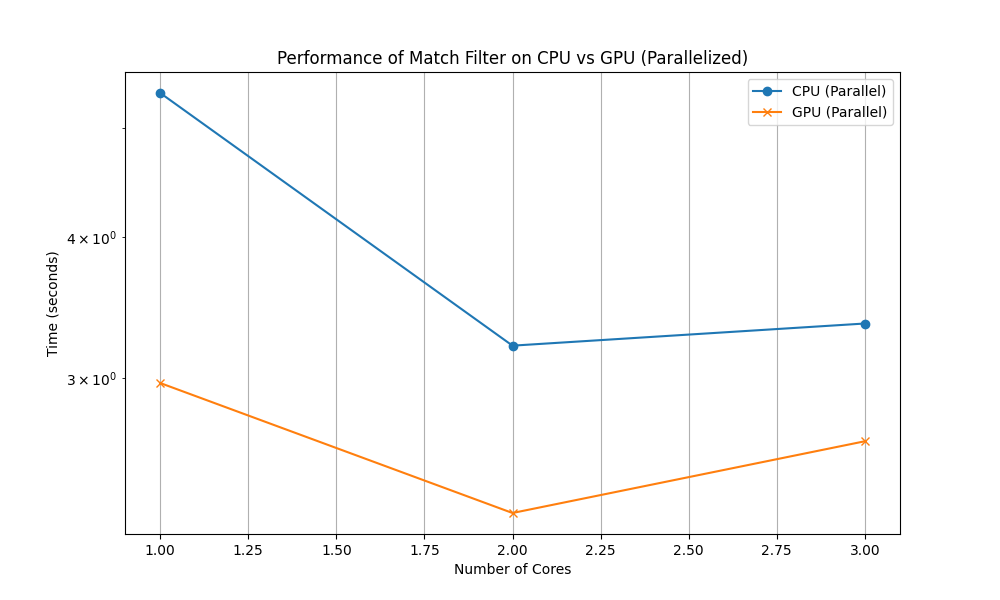
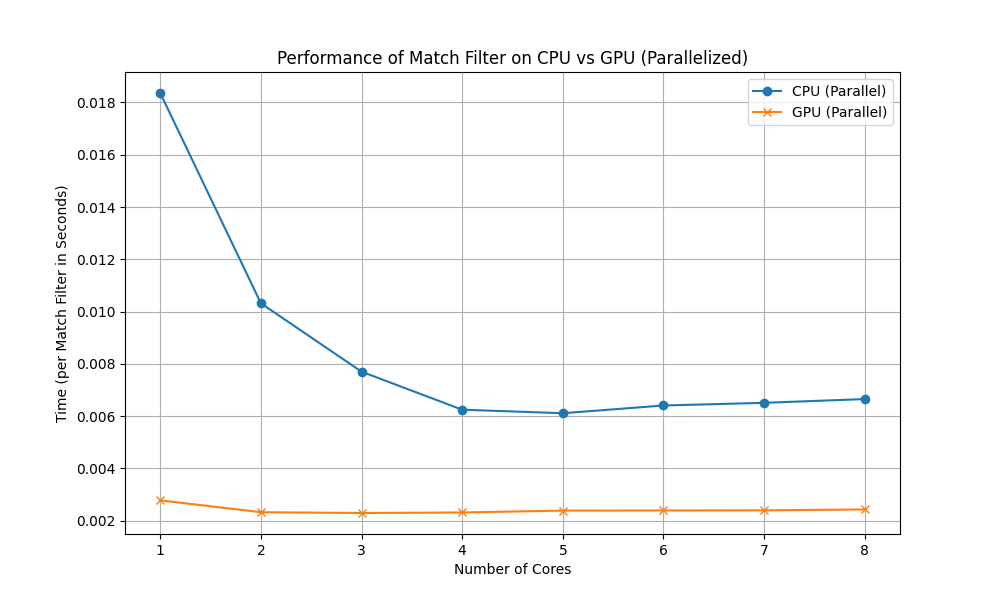
match_filter changes

diff --git a/scripts/matchfilter_test.py b/scripts/matchfilter_test.py
@@ -4,6 +4,7 @@ from mlx.core.fft import ifft
 import time
 import multiprocessing
 import matplotlib.pyplot as plt
+import h5py
 
 def define_match_filter(a, b, stream): # multiplies two arrays, performs the IFFT, and returns the maximum value of the reshaped result.
     product = mx.multiply(a.conj(), b, stream=stream)
@@ -18,47 +19,77 @@ def frozen_gpumatchfilter(ab):
                 return define_match_filter(*ab, stream=mx.gpu)
 
 if __name__ == "__main__":
-    list_size = 120
+    list_size = 1000
+    list_size_cpu = 1000
+    list_size_gpu = 500
     array_size = int(2**20)
-    a_list = [mx.array(mx.random.normal(shape=(array_size,), dtype=mx.float32) + 1j * mx.random.normal(shape=(array_size,), dtype=mx.float32)) for _ in range(list_size)]
-    b_list = [mx.array(mx.random.normal(shape=(array_size,), dtype=mx.float32) + 1j * mx.random.normal(shape=(array_size,), dtype=mx.float32)) for _ in range(list_size)]
+    a_array = mx.array(mx.random.normal(shape=(array_size,), dtype=mx.float32) + 1j * mx.random.normal(shape=(array_size,), dtype=mx.float32)) 
+    b_array = mx.array(mx.random.normal(shape=(array_size,), dtype=mx.float32) + 1j * mx.random.normal(shape=(array_size,), dtype=mx.float32)) 
+    a_list = [a_array for _ in range(list_size)]
+    b_list = [b_array for _ in range(list_size)]
     ab_list = list(zip(a_list,b_list))
-    cpu_max_values = []
-    gpu_max_values = []
+    #cpu_max_values = []
+    #gpu_max_values = []
 
     # running on a single core for CPU and GPU
-    for a, b in zip(a_list, b_list):
-        cpu_max_values.append(define_match_filter(a, b, stream=mx.cpu))
-        gpu_max_values.append(define_match_filter(a, b, stream=mx.gpu))
+    #for a, b in zip(a_list, b_list):
+    #    cpu_max_values.append(define_match_filter(a, b, stream=mx.cpu))
+    #    gpu_max_values.append(define_match_filter(a, b, stream=mx.gpu))
 
     # parallelizing the task (cores 1-4)
     cpu_times_parallel = []
     gpu_times_parallel = []
 
-    test_cores = [1,2,3]
+    test_cores = [1,2,3,4,5,6,7,8]
 
     for ncores in test_cores:
         with multiprocessing.Pool(ncores) as pool:
             start_time = time.perf_counter()
             cpu_results = list(pool.map(frozen_cpumatchfilter, ab_list))
             cpu_time_parallel = time.perf_counter() - start_time
-            cpu_times_parallel.append(cpu_time_parallel)
+            cpu_times_parallel.append(cpu_time_parallel / list_size_cpu)
 
             start_time = time.perf_counter()
             gpu_results = list(pool.map(frozen_gpumatchfilter, ab_list))
             gpu_time_parallel = time.perf_counter() - start_time
-            gpu_times_parallel.append(gpu_time_parallel)
+            gpu_times_parallel.append(gpu_time_parallel / list_size_gpu)
+
+    cpu_times_parallel =  np.array(cpu_times_parallel)
+    gpu_times_parallel =  np.array(gpu_times_parallel)
+
+    # saves timing results to HDF5 file
+    with h5py.File("match_filter_results.h5", "w") as hdf:
+        hdf.create_dataset("test_cores", data=test_cores)
+        hdf.create_dataset("cpu_times_parallel", data=cpu_times_parallel)
+        hdf.create_dataset("gpu_times_parallel", data=gpu_times_parallel)
+
+    # reads timing results from HDF5 file
+    with h5py.File("match_filter_results.h5", "r") as hdf:
+        test_cores = hdf["test_cores"][:]
+        cpu_times_parallel = hdf["cpu_times_parallel"][:]
+        gpu_times_parallel = hdf["gpu_times_parallel"][:]
+    
 
     plt.figure(figsize=(10, 6))
-    plt.semilogy()
     plt.plot(test_cores, cpu_times_parallel, label="CPU (Parallel)", marker='o')
     plt.plot(test_cores, gpu_times_parallel, label="GPU (Parallel)", marker='x')
     plt.xlabel("Number of Cores")
-    plt.ylabel("Time (seconds)")
+    plt.ylabel("Time (per Match Filter in Seconds)")
     plt.title("Performance of Match Filter on CPU vs GPU (Parallelized)")
     plt.legend()
     plt.grid(True)
 
     # saving plot
     plt.savefig("match_filter_performance.png")
+    plt.show()
+
+    plt.figure(figsize=(10, 6))
+    plt.plot(test_cores, cpu_times_parallel / gpu_times_parallel, label="CPU (Parallel)", marker='o')
+    plt.xlabel("Number of Cores")
+    plt.ylabel("CPU Time / GPU Time")
+    plt.title("Speed Up Factor")
+    plt.legend()
+    plt.grid(True)
+
+    plt.savefig("match_filter_speedupplot.png")
     plt.show()
